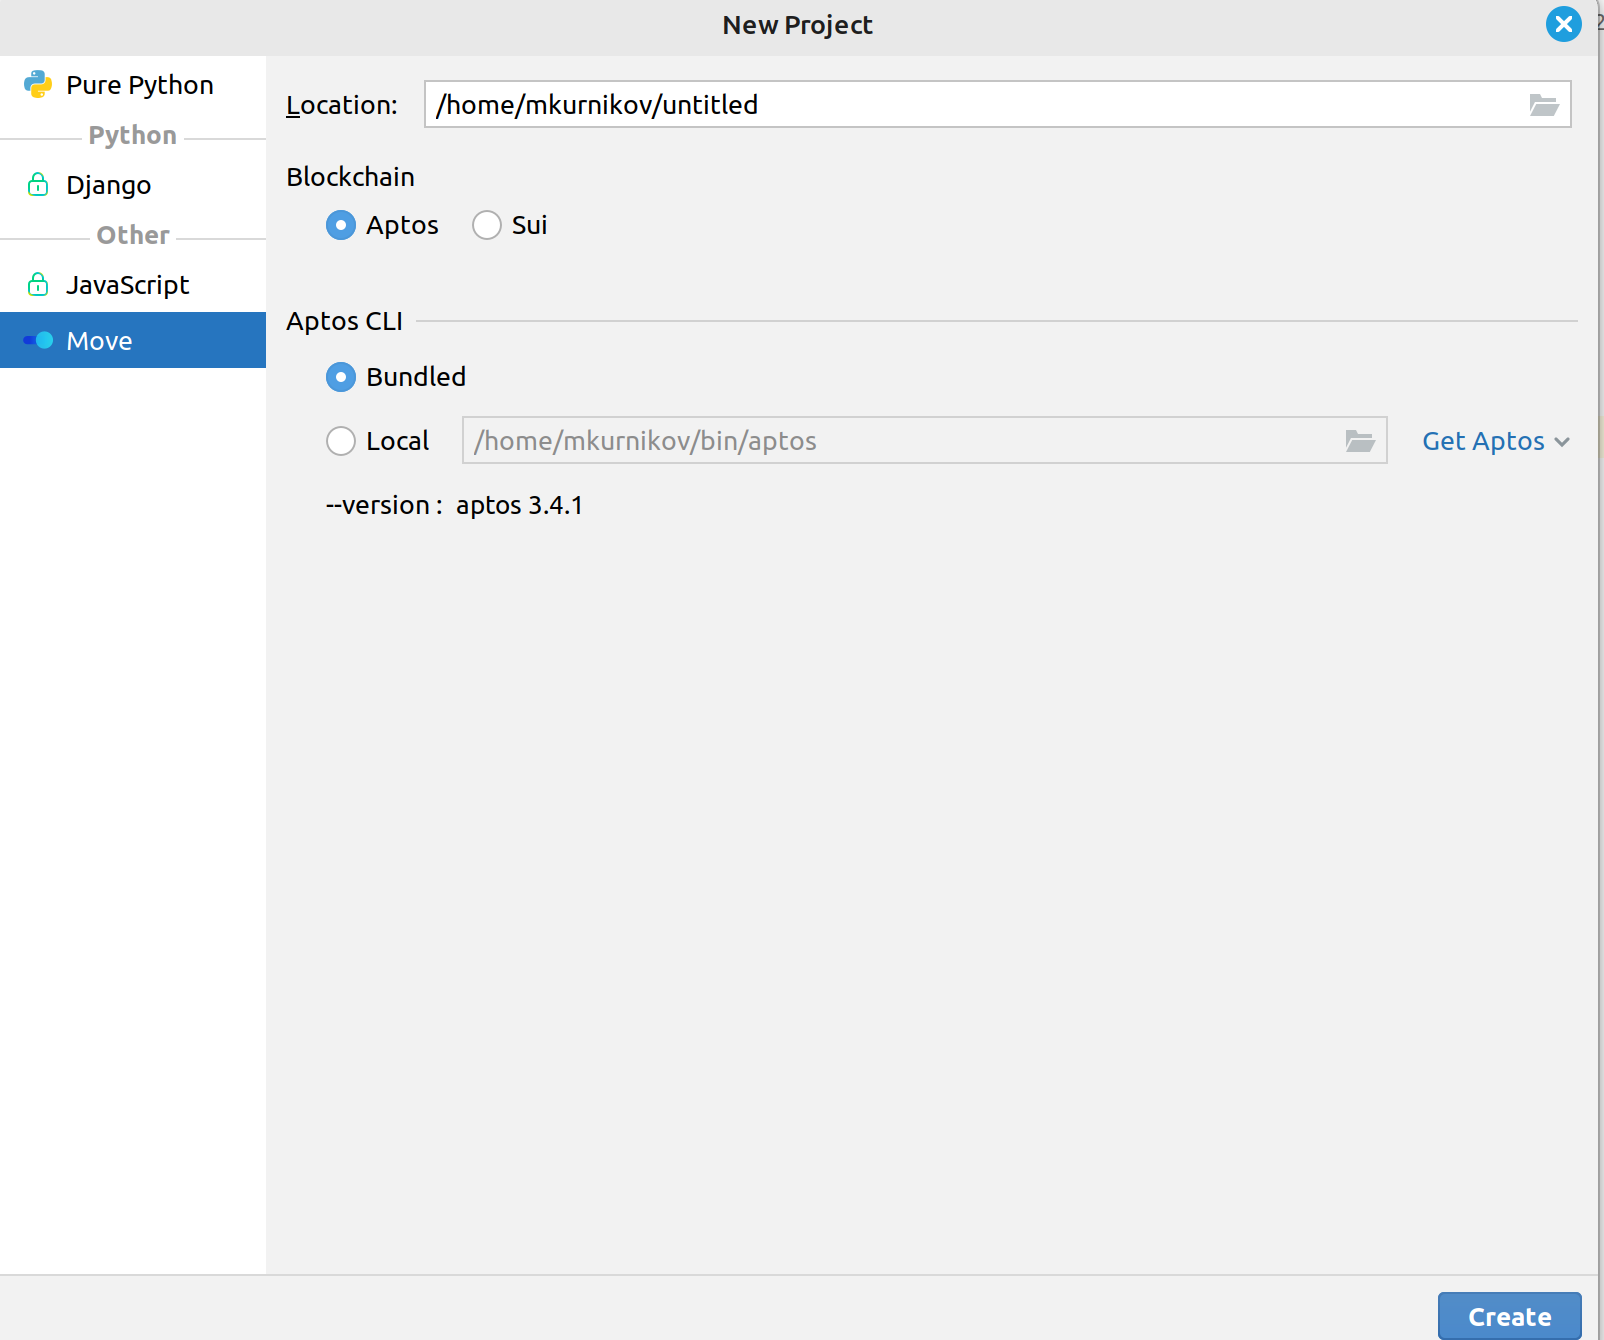
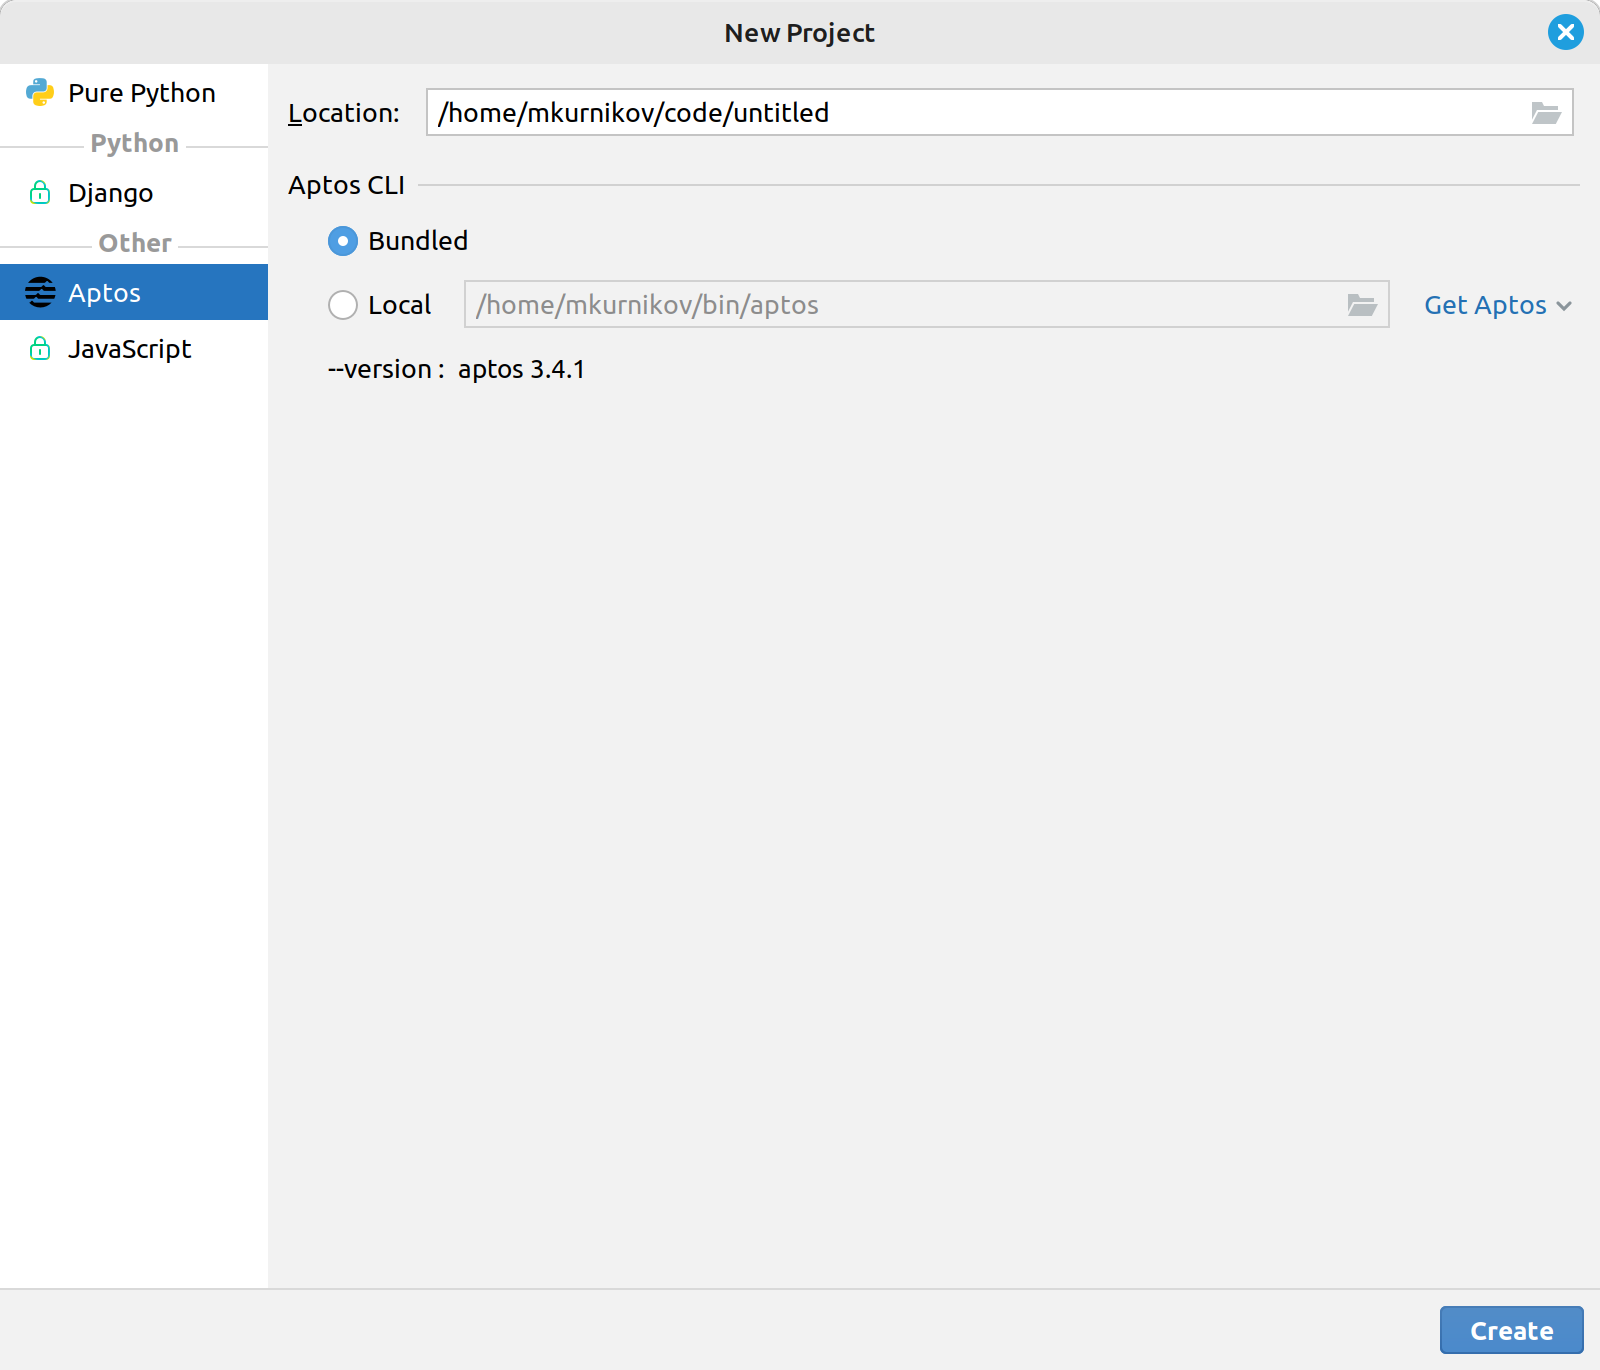
update docs with sui removal change

diff --git a/Writerside/topics/Opening-Loading-Aptos-Projects.md b/Writerside/topics/Opening-Loading-Aptos-Projects.md
@@ -16,7 +16,7 @@ Go to <b>File | New project...</b> and select the <b>Move</b> project type under
 <img src="new_project.png" alt="New Project" width="600" border-effect="line" />
 </step>
 <step>
-Choose project name, select blockchain type and select Aptos CLI to use for the initialization process. 
+Choose project name and select Aptos CLI to use for the initialization process. 
 Move on Aptos IDE plugin ships with the built-in Aptos CLI. If you wish to use the different version of the CLI, 
 you can download it with the <b>Get Aptos | Download pre-compiled binary from GitHub</b> action link.
 <img src="download_aptos.gif" alt="Download Aptos" border-effect="line" width="400" />
@@ -31,7 +31,7 @@ When you open or update an existing Aptos project, the plugin takes project info
 and opens the **Build** tool window (the **Sync** tab) to show the progress and result of project loading. 
 Click ![inspections-eye](inspectionsEye.svg) to view all the steps:
 
-![Build Tool Window image](build_sync.png) { border-effect="line" width="450"}
+![Build Tool Window image](build_sync.png) { border-effect="line" width="550"}
 
 ### Automatic reloading
 
@@ -47,6 +47,6 @@ the model needs an update - the editor will display a button that you can use to
 
 ![Load Changes](load_changes.gif)
 
-Alternatively, you can reload projects through the Cargo tool window (**View | Tool Windows | Cargo**) 
+Alternatively, you can reload projects through the Aptos tool window (**View | Tool Windows | Aptos**) 
 by clicking the ![Reload Icon](refresh.svg) in the toolbar.
 

diff --git a/Writerside/topics/Project-Settings.md b/Writerside/topics/Project-Settings.md
@@ -1,12 +1,11 @@
 # Project Settings
 
-To configure general project settings, go to **Settings | Languages & Frameworks | Move Language**: 
+To configure general project settings, go to **Settings | Languages & Frameworks | Aptos**: 
 
 ![Settings Image](settings.png){ border-effect="line" width="800" }
 
-* You can choose between `Aptos` and `Sui` blockchains. It affects selected CLI path and command generation.
+* On Windows and Linux we bundle Aptos CLI with the plugin. 
+If you'd like to use other version of the CLI, you can specify it with `Local` option. 
 
-* `Aptos` blockchain is default, and we provide bundled `aptos-cli` with the IDE. If you want to use other version, you can provide it with `Local` option. 
-
-* There's number of options to configure for `Aptos`.
+* There's number of options to configure for the generated commands in the CLI. 
 

diff --git a/Writerside/topics/1-36-0.md b/Writerside/topics/1-36-0.md
@@ -1,6 +1,12 @@
 # 1.36.0
 
-This release is supported with a grant from [Aptos Foundation](https://aptosfoundation.org/).
+This release is supported with a grant from [Aptos Foundation](https://aptosfoundation.org/). 
+The plugin is renamed to **Move on Aptos** on Jetbrains Marketplace, with new Aptos-specific logos. 
+
+![Plugin on Marketplace](move_on_aptos_plugin.png) { border-effect="line" width="550" }
+
+Sui support is also removed from this release on. Sui Move language has diverged from the original 
+Move Compiler with their **Move 2024** version of the language, and it became very costly to support it in the same source code.   
 
 ## Features
 

diff --git a/Writerside/topics/Testing.md b/Writerside/topics/Testing.md
@@ -11,7 +11,3 @@ Intellij-Move plugin integrates with Aptos and Sui CLIs testing functionality.
 </procedure>
 
 Take a look at [RustRover documentation](https://www.jetbrains.com/help/rust/run-debug-configuration.html) for more information.
-
-## Explore Test Results
-
-TBD
